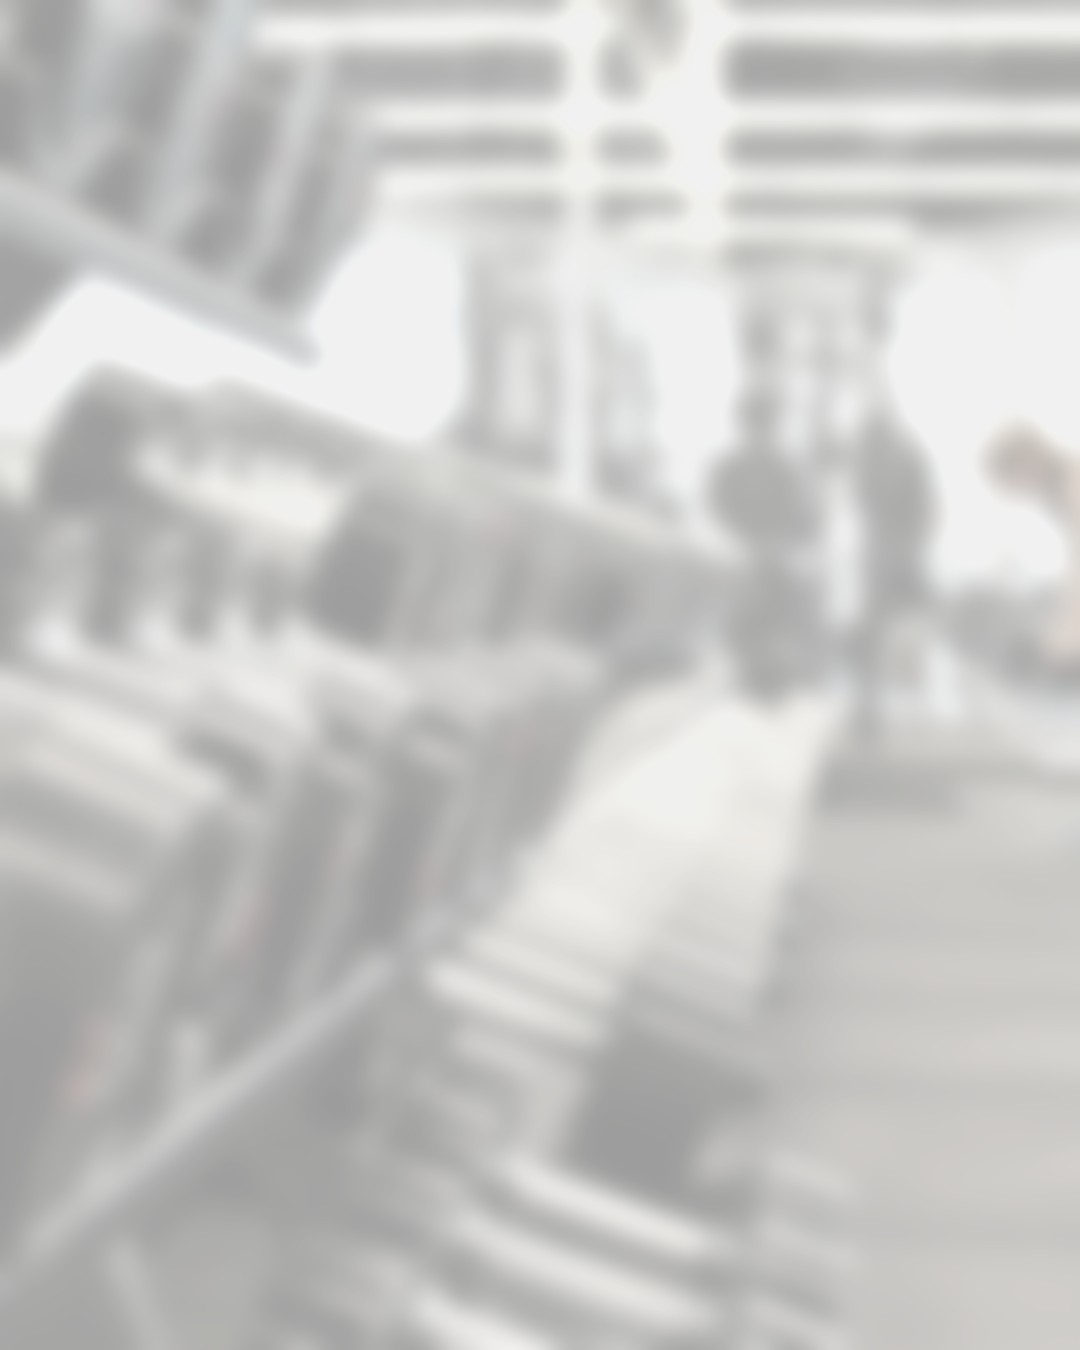
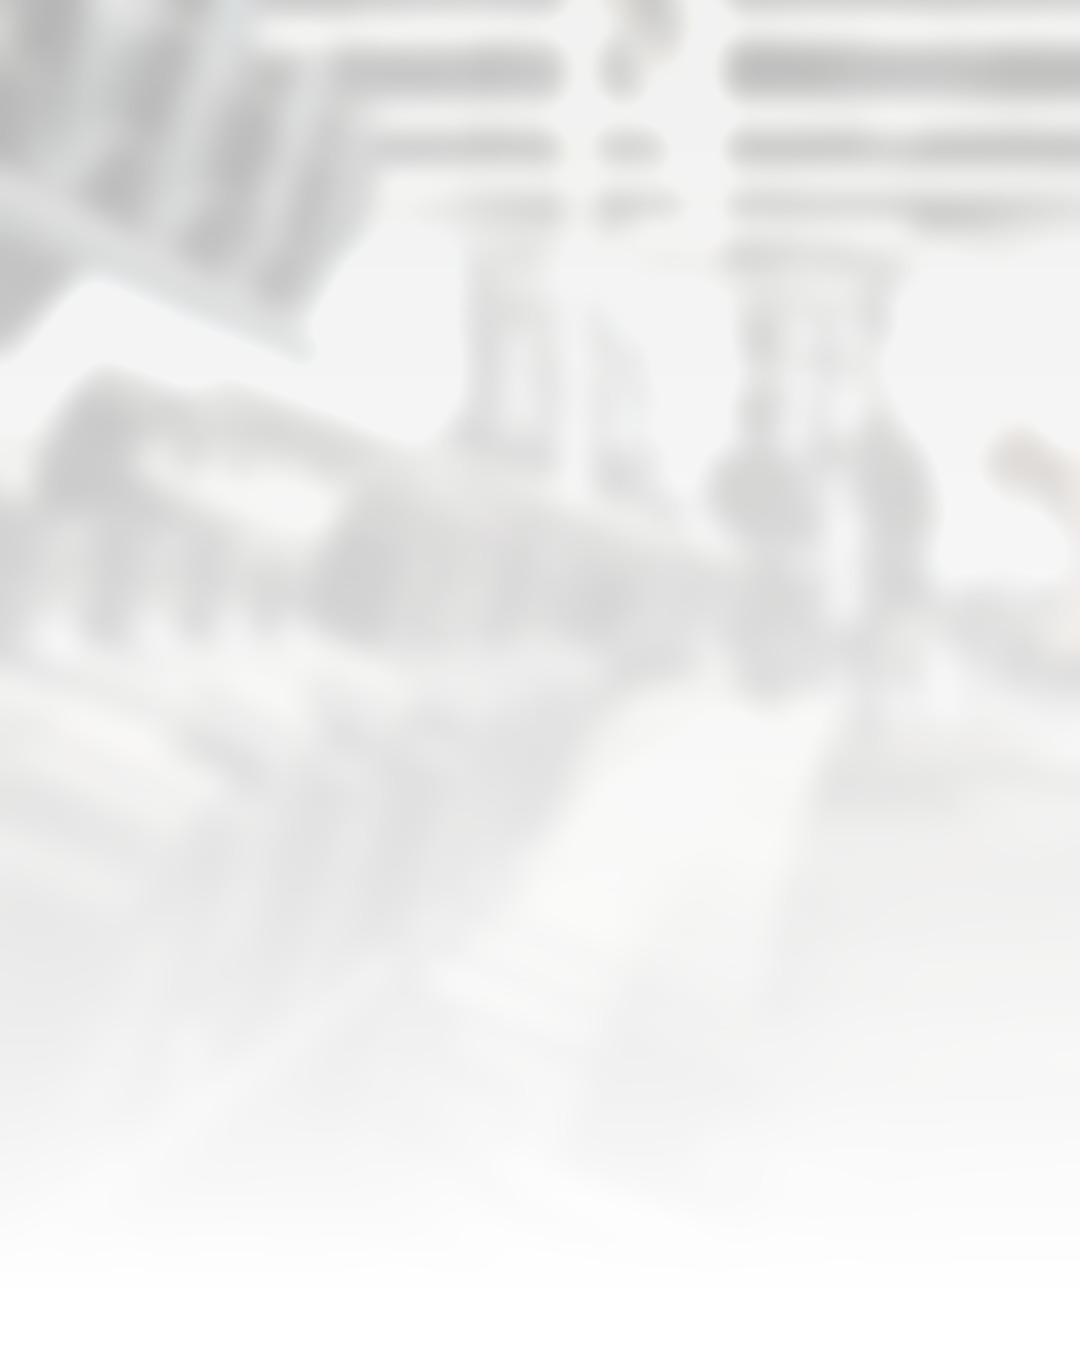
Post HOY: degradé blanco puro sin gris final
El gym queda en el centro en blur y el fondo cierra a
blanco 100% arriba/abajo para evitar tono gris.

diff --git a/builds/2026-09-15-post-buy-hoy/build.py b/builds/2026-09-15-post-buy-hoy/build.py
@@ -88,11 +88,16 @@ body{{background:#111;}}
   position:absolute;inset:0;z-index:0;width:100%;height:100%;
   object-fit:cover;object-position:center;display:block;
 }}
-/* Velo claro — fondo más blanco que negro, gym apenas atrás */
+/* Degradé a blanco puro — sin gris abajo; gym apenas en el centro */
 .veil{{
   position:absolute;inset:0;z-index:1;pointer-events:none;
   background:
-    linear-gradient(180deg, rgba(255,255,255,.42) 0%, rgba(255,255,255,.55) 50%, rgba(255,255,255,.68) 100%);
+    linear-gradient(180deg,
+      rgba(255,255,255,.55) 0%,
+      rgba(255,255,255,.25) 28%,
+      rgba(255,255,255,.35) 55%,
+      rgba(255,255,255,.85) 82%,
+      #ffffff 100%);
 }}
 .web{{
   position:absolute;left:0;right:0;bottom:70px;text-align:center;z-index:10;
